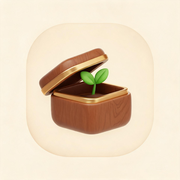
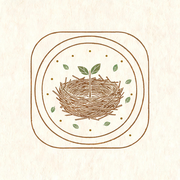
brand: 图标更新为C(木刻·巢与幼苗)+站点更名roost+产品顶部回归「栖匣」(撤回产品内英文)+manifest/README/LICENSE同步

diff --git a/index.html b/index.html
@@ -4,13 +4,13 @@
 <svg width="0" height="0" style="position:absolute" aria-hidden="true"><defs><linearGradient id="plBg" x1="0%" y1="0%" x2="100%" y2="100%"><stop offset="0%" stop-color="#4A3427"/><stop offset="100%" stop-color="#33291F"/></linearGradient><radialGradient id="plSun" cx="45%" cy="35%" r="80%"><stop offset="0%" stop-color="#FFF7E2"/><stop offset="60%" stop-color="#F6CF72"/><stop offset="100%" stop-color="#EFAD46"/></radialGradient></defs></svg>
 
 <meta name="viewport" content="width=device-width, initial-scale=1.0, maximum-scale=1.0, user-scalable=no, viewport-fit=cover">
-<title>栖匣 Nestbox · 心有所栖 · 匣纳成长</title>
+<title>栖匣 · 心有所栖 · 匣纳成长</title>
   <meta name="author" content="尹平平">
   <meta name="copyright" content="© 2026 尹平平 · 栖匣 · 保留所有权利">
   <meta name="theme-color" id="themeColorMeta" content="#6E4F37">
   <meta name="apple-mobile-web-app-capable" content="yes">
   <meta name="apple-mobile-web-app-status-bar-style" content="black-translucent">
-  <meta name="apple-mobile-web-app-title" content="Nestbox 栖匣">
+  <meta name="apple-mobile-web-app-title" content="栖匣">
   <link rel="manifest" href="pwa/manifest.json">
   <link rel="icon" type="image/png" href="pwa/icon-192.png">
   <link rel="apple-touch-icon" href="pwa/icon-180.png">
@@ -1307,7 +1307,7 @@ input:focus,textarea:focus,select:focus{border-color:var(--primary);background:#
       <svg viewBox="0 0 24 24" fill="none" stroke="currentColor" stroke-width=" 2"><line x1="3" y1="6" x2="21" y2="6"></line><line x1="3" y1="12" x2="21" y2="12"></line><line x1="3" y1="18" x2="21" y2="18"></line></svg>
     </button>
     <div class="tb-title" onclick="switchView('home');setBottomActive(null,'home')" style="cursor:pointer" title="回到今日概览">
-      <div class="title"><img src="pwa/logo.png" alt="栖匣" style="width:26px;height:26px;border-radius:7px;flex-shrink:0">栖匣<span class="tb-en" style="font-weight:600;font-size:12px;letter-spacing:.5px;opacity:.85;margin-left:5px">Nestbox</span> <span class="tb-badge">心有所栖 · 匣纳成长</span></div>
+      <div class="title"><img src="pwa/logo.png" alt="栖匣" style="width:26px;height:26px;border-radius:7px;flex-shrink:0">栖匣 <span class="tb-badge">心有所栖 · 匣纳成长</span></div>
       <div class="date" id="todayDate">2026年8月24日 星期日</div>
     </div>
     <div class="tools">
@@ -8407,7 +8407,7 @@ function printTpl(id){
     +'td,th{border:1px solid #ccc;padding:8px;font-size:14px}input,textarea{border:none;outline:none;width:100%;font-size:14px;font-family:inherit}'
     +'textarea{resize:none}.tip{color:#888;font-size:12px}</style></head><body>'
     +'<h2>栖匣 · 学习计划表</h2>'+box.innerHTML
-    +'<p class="tip">由「栖匣 Nestbox · 心有所栖 · 匣纳成长」生成</p></body></html>';
+    +'<p class="tip">由「栖匣 · 心有所栖 · 匣纳成长」生成</p></body></html>';
   var w=window.open('','_blank');
   w.document.write(html);w.document.close();
   setTimeout(function(){w.print();},300);
@@ -8465,9 +8465,9 @@ function exportCurrentPDF(){
   var nowD=new Date(),taskList=document.querySelector('.view.active')?null:'';
   var ds=(''+nowD.getFullYear())+'-'+('0'+(nowD.getMonth()+1)).slice(-2)+'-'+('0'+nowD.getDate()).slice(-2);
   var html='<!DOCTYPE html><html lang="zh-CN"><head><meta charset="utf-8"><title>'+name+' · 栖匣</title>'+style+'</head><body>'
-    +'<div class="pdf-brandbar"><div class="pb-logo"><img src="./pwa/icon-512.png" alt=""></div><div class="pb-info"><b>栖匣 Nestbox · 心有所栖 · 匣纳成长</b><span>个人成长报告 · 数据仅存于你的设备</span></div><div class="pb-meta"><span class="pb-name">'+name+'</span><span class="pb-date">导出于 '+ds+'</span></div></div>'
+    +'<div class="pdf-brandbar"><div class="pb-logo"><img src="./pwa/icon-512.png" alt=""></div><div class="pb-info"><b>栖匣 · 心有所栖 · 匣纳成长</b><span>个人成长报告 · 数据仅存于你的设备</span></div><div class="pb-meta"><span class="pb-name">'+name+'</span><span class="pb-date">导出于 '+ds+'</span></div></div>'
     +clone.innerHTML
-    +'<div class="pdf-footer"><div>由「栖匣 Nestbox · 心有所栖 · 匣纳成长」生成</div><div>个人资料 · 私密导出 · '+ds+'</div></div>'
+    +'<div class="pdf-footer"><div>由「栖匣 · 心有所栖 · 匣纳成长」生成</div><div>个人资料 · 私密导出 · '+ds+'</div></div>'
     +'</body></html>';
   /* 在当前页面打开全屏预览：直接看到结果，不受弹窗拦截影响，可随时打印/另存为 PDF */
   var ov=document.getElementById('pdfPreview');
@@ -12648,10 +12648,10 @@ if(document.readyState==='loading'){document.addEventListener('DOMContentLoaded'
   function esc(s){return String(s==null?'':s).replace(/[&<>"]/g,function(c){return{'&':'&amp;','<':'&lt;','>':'&gt;','"':'&quot;'}[c];});}
 
   var CHANGES=[
-    {v:'2026.08.28',t:'品牌焕新 · Nestbox',tag:'品牌 / 图标',blocks:[
-      '· 正式启用英文品牌名 Nestbox（栖匣）：如巢之匣，安放与成长并蓄；顶栏、标题、PWA 安装名、打印与导出水印全站统一。',
-      '· 全新主图标：温润木匣微启、幼苗新发，象征「安放 → 生长」，统一各尺寸应用图标与启动屏视觉。',
-      '· 品牌口径自此唯一；更新日志不再保留任何早期旧称描述。'
+    {v:'2026.08.28',t:'品牌级视觉焕新 · 手作徽章图标',tag:'品牌 / 图标',blocks:[
+      '· 全新主图标：以木刻版画手作感塑造「栖巢－幼苗」火漆徽章，喻「安放 → 生长」；统一各尺寸与应用启动屏，摒弃生硬 3D 塑感。',
+      '· 产品顶部命名回归「栖匣 · 心有所栖 · 匣纳成长」，品牌口径唯一、更为克制高级。',
+      '· 站点英文身份更名 Roost（即"栖"：安放与归来）；旧地址自动跳转至新址。'
     ]},
     {v:'2026.08.28',t:'全维度体验优化（交互 / 主题 / 数据 / 无障碍）',tag:'体验',blocks:[
       '· 导航升级：子页面顶部新增可点击面包屑（返回上级/首页）；侧边栏板块展开收起加柔和动画并记忆状态；新增「我的收藏」快捷板块，收藏状态刷新后保留。',

diff --git a/README.md b/README.md
@@ -1,4 +1,4 @@
-# 「栖匣 · Nestbox」GitHub Pages 发布说明
+# 「栖匣」GitHub Pages 发布说明
 
 这是一键发布的最终成品包，包含全部修复后的主站 `index.html` 和“装桌面当 App”所需的 PWA 文件（清单、图标、离线脚本）。
 

diff --git a/LICENSE.md b/LICENSE.md
@@ -1,5 +1,5 @@
-栖匣 · Nestbox —— 大学生成长中枢
-==============================
+栖匣 —— 大学生成长中枢
+======================
 
 Copyright © 2026 尹平平 （YIN PINGPING）。保留所有权利。
 
